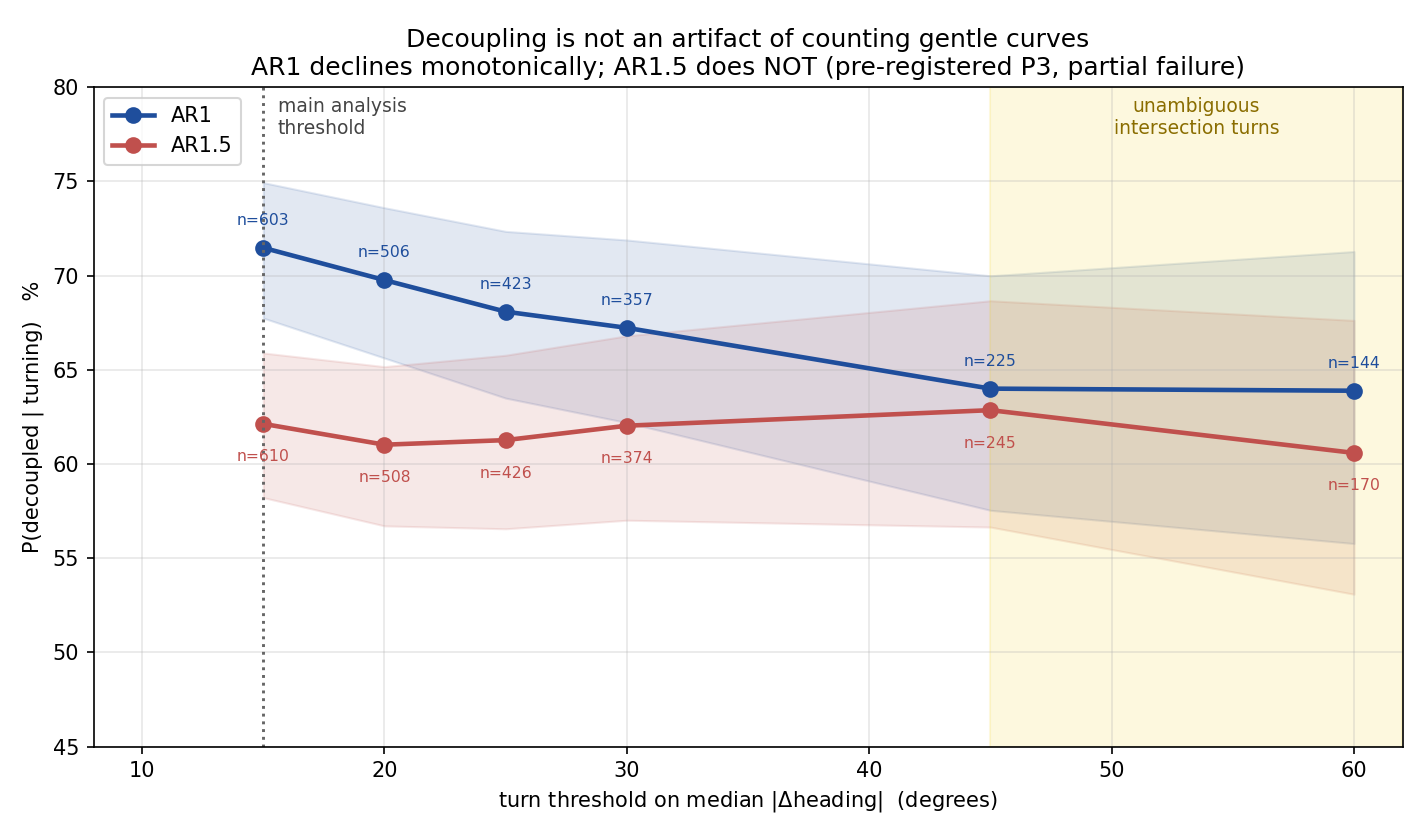
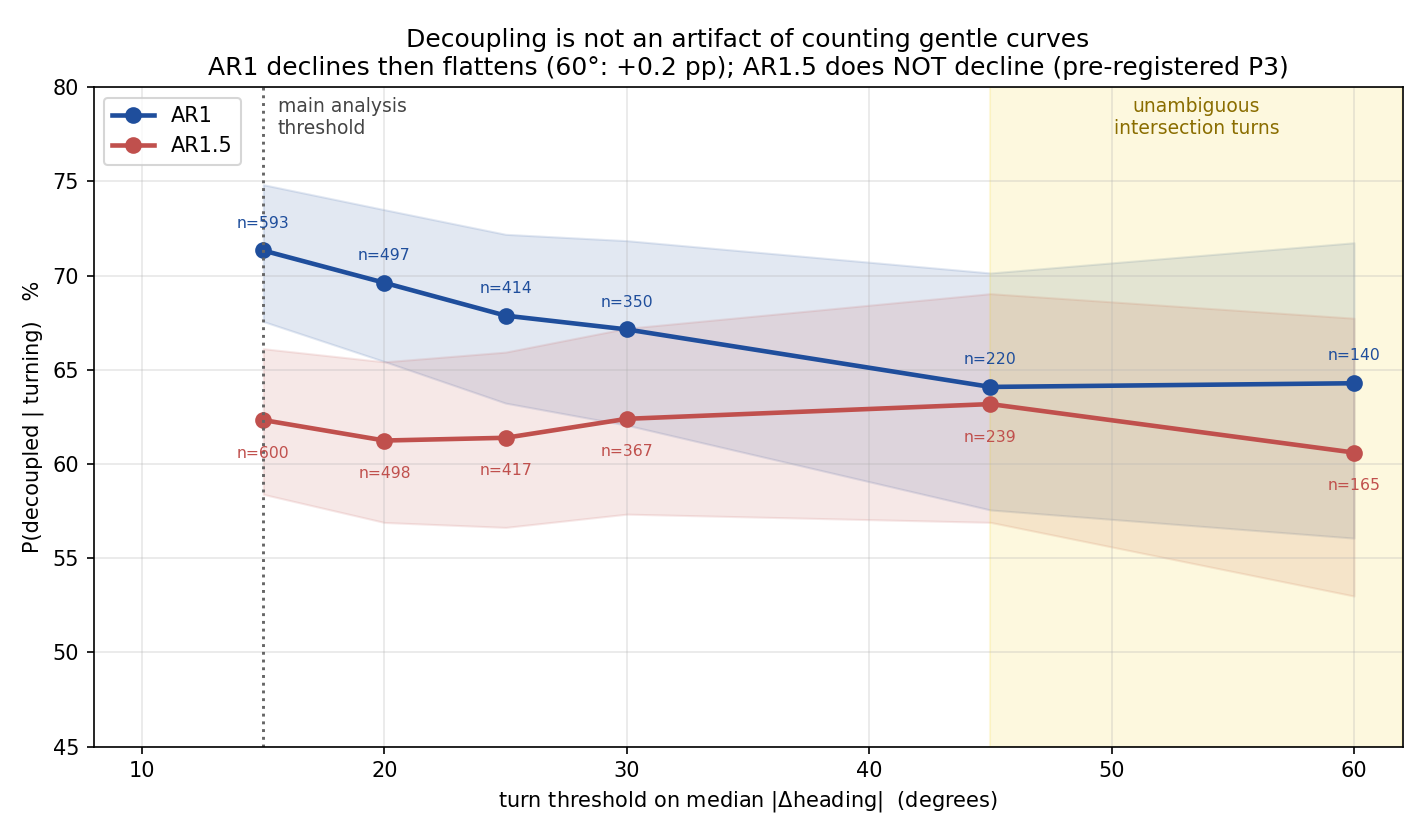
fig5/fig10: pure K=5 pool (revision #30)

diff --git a/README.md b/README.md
@@ -33,7 +33,7 @@ https://raw.githubusercontent.com/<user>/<repo>/<commit-sha>/figures/<name>.png
 
 | 檔名 | 大小 |
 |---|---|
-| `fig10_turn_threshold_sensitivity.png` | 116 KB |
+| `fig10_turn_threshold_sensitivity.png` | 117 KB |
 | `fig11_kvr_mu_sensitivity.png` | 98 KB |
 | `fig12_clic_baseline_decomposition.png` | 125 KB |
 | `fig1_decoupling_case_591dce37.png` | 118 KB |
